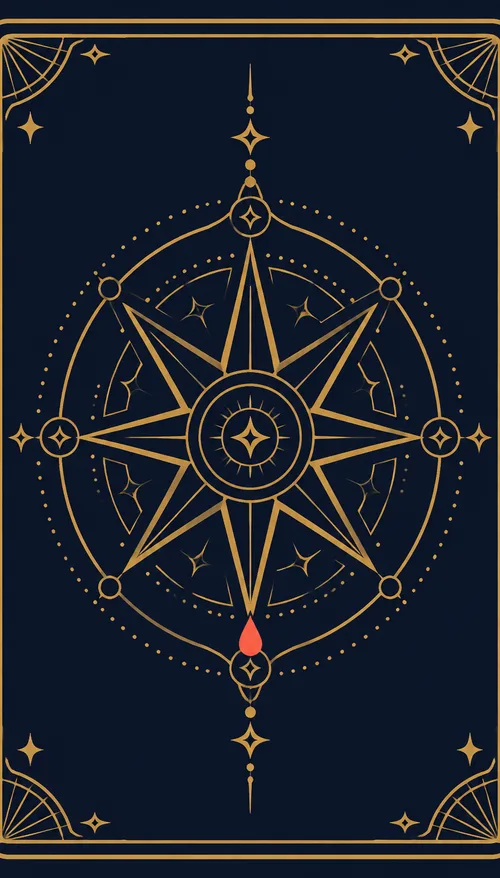
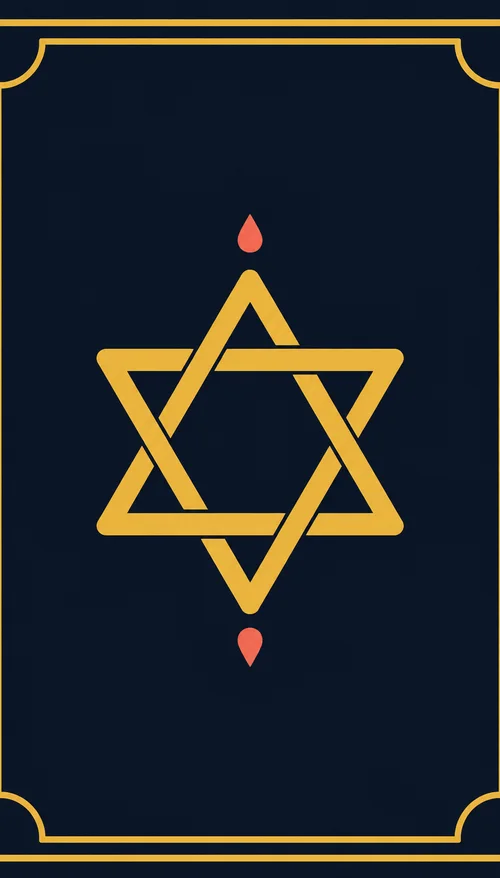
feat: UX#8 返回手势逐级回退(stepBack) + 星纹·暖金牌背视觉迭代(gpt-image 重生成)

diff --git a/src/App.vue b/src/App.vue
@@ -1,15 +1,31 @@
 <script setup>
 import { useRoute } from 'vue-router'
-import { computed } from 'vue'
+import { computed, onMounted, onUnmounted } from 'vue'
 import TabBar from './components/TabBar.vue'
 import AppToast from './components/AppToast.vue'
 import AchievementToast from './components/AchievementToast.vue'
 import AppInstallBanner from './components/AppInstallBanner.vue'
 import LevelUpToast from './components/LevelUpToast.vue'
+import { useReadingStore } from './stores/reading.js'
+import { PHASE_ROUTE } from './router/index.js'
 
 const route = useRoute()
 // 占卜动线与引导页沉浸式展示，不显示 TabBar
 const showTabBar = computed(() => !route.path.startsWith('/reading') && route.path !== '/welcome')
+
+// UX #8：返回手势统一——占卜动线内返回键逐级回退，不误退
+function onBack() {
+  const store = useReadingStore()
+  if (store.phase === 'idle') return // 非占卜中，交给浏览器默认
+  const prev = store.stepBack()
+  if (prev && PHASE_ROUTE[prev]) {
+    history.pushState(null, '', PHASE_ROUTE[prev]) // 打断返回，改跳上一步
+  }
+  // prev === null → 已退出本局，允许浏览器回退到首页
+}
+
+onMounted(() => window.addEventListener('popstate', onBack))
+onUnmounted(() => window.removeEventListener('popstate', onBack))
 </script>
 
 <template>

diff --git a/tests/reading-store.spec.js b/tests/reading-store.spec.js
@@ -199,4 +199,31 @@ describe('reading store：状态机', () => {
     expect(store.phase).toBe('shuffling')
     expect(store.domain).toBeNull()
   })
+
+  it('stepBack：interpreting→revealing→picking 逐级回退并清理中间态', () => {
+    const store = useReadingStore()
+    walkToPicking(store)
+    store.pickAll()
+    store.revealCard('past')
+    store.revealAll()
+    store.goInterpret()
+    expect(store.phase).toBe('interpreting')
+    expect(store.stepBack()).toBe('revealing')
+    // revealing 回退到 picking：清空 revealedKeys 与已抽/待抽
+    expect(store.stepBack()).toBe('picking')
+    expect(store.revealedKeys).toEqual([])
+    expect(store.drawn).toEqual([])
+    expect(store.pending).toEqual([])
+    expect(store.pickedIndices).toEqual([])
+  })
+
+  it('stepBack：picking→shuffling→questioning，问题保留；questioning 再退则重置', () => {
+    const store = useReadingStore()
+    walkToPicking(store) // 到 picking
+    expect(store.stepBack()).toBe('shuffling')
+    expect(store.stepBack()).toBe('questioning')
+    expect(store.question).toBe('测试问题') // 问题未丢
+    expect(store.stepBack()).toBeNull() // 无前一步 → 重置
+    expect(store.phase).toBe('idle')
+  })
 })

diff --git a/src/stores/reading.js b/src/stores/reading.js
@@ -184,6 +184,29 @@ export const useReadingStore = defineStore('reading', {
       return true
     },
 
+    // 返回手势（UX #8）：占卜动线内逐级回退；questioning 再退则退出本局
+    stepBack() {
+      const order = ['questioning', 'shuffling', 'picking', 'revealing', 'interpreting']
+      const idx = order.indexOf(this.phase)
+      if (idx <= 0) {
+        this.reset()
+        return null
+      }
+      const prev = order[idx - 1]
+      // 回退时清掉只会向前的中间态，避免回到旧步骤后状态错位
+      if (prev === 'picking') {
+        this.drawn = []
+        this.pending = []
+        this.pickedIndices = []
+      }
+      if (prev === 'revealing') {
+        this.revealedKeys = []
+      }
+      this.phase = prev
+      this.persistNow()
+      return prev
+    },
+
     hasActiveReading() {
       return this.phase !== 'idle' || this.tryRestore()
     }
